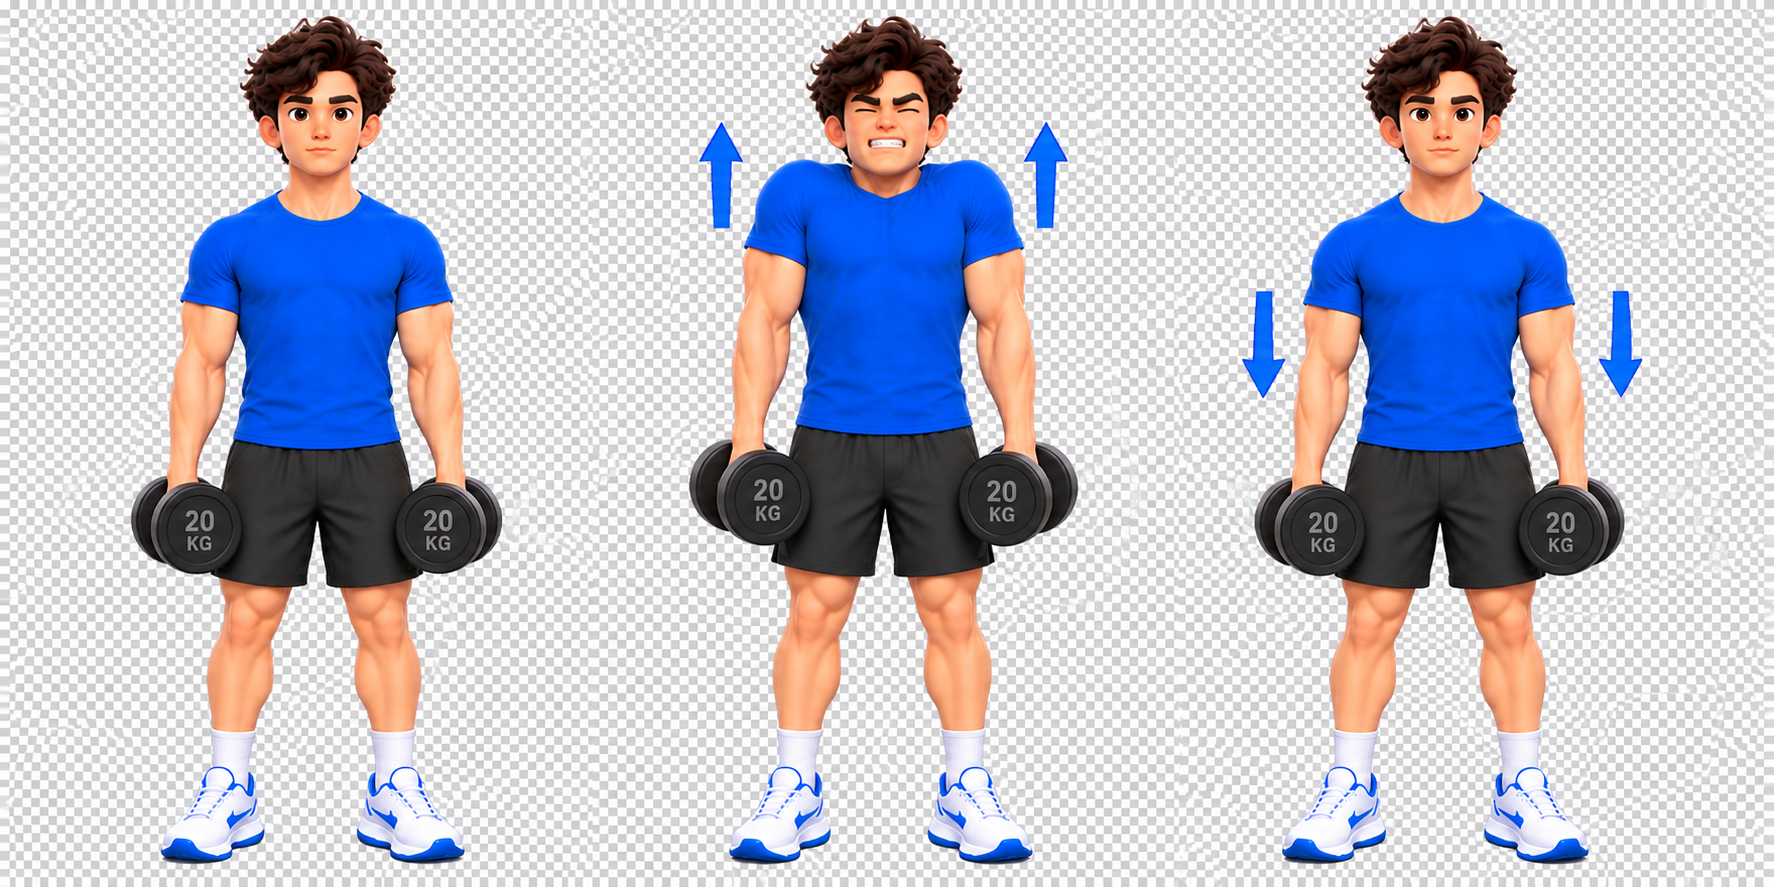
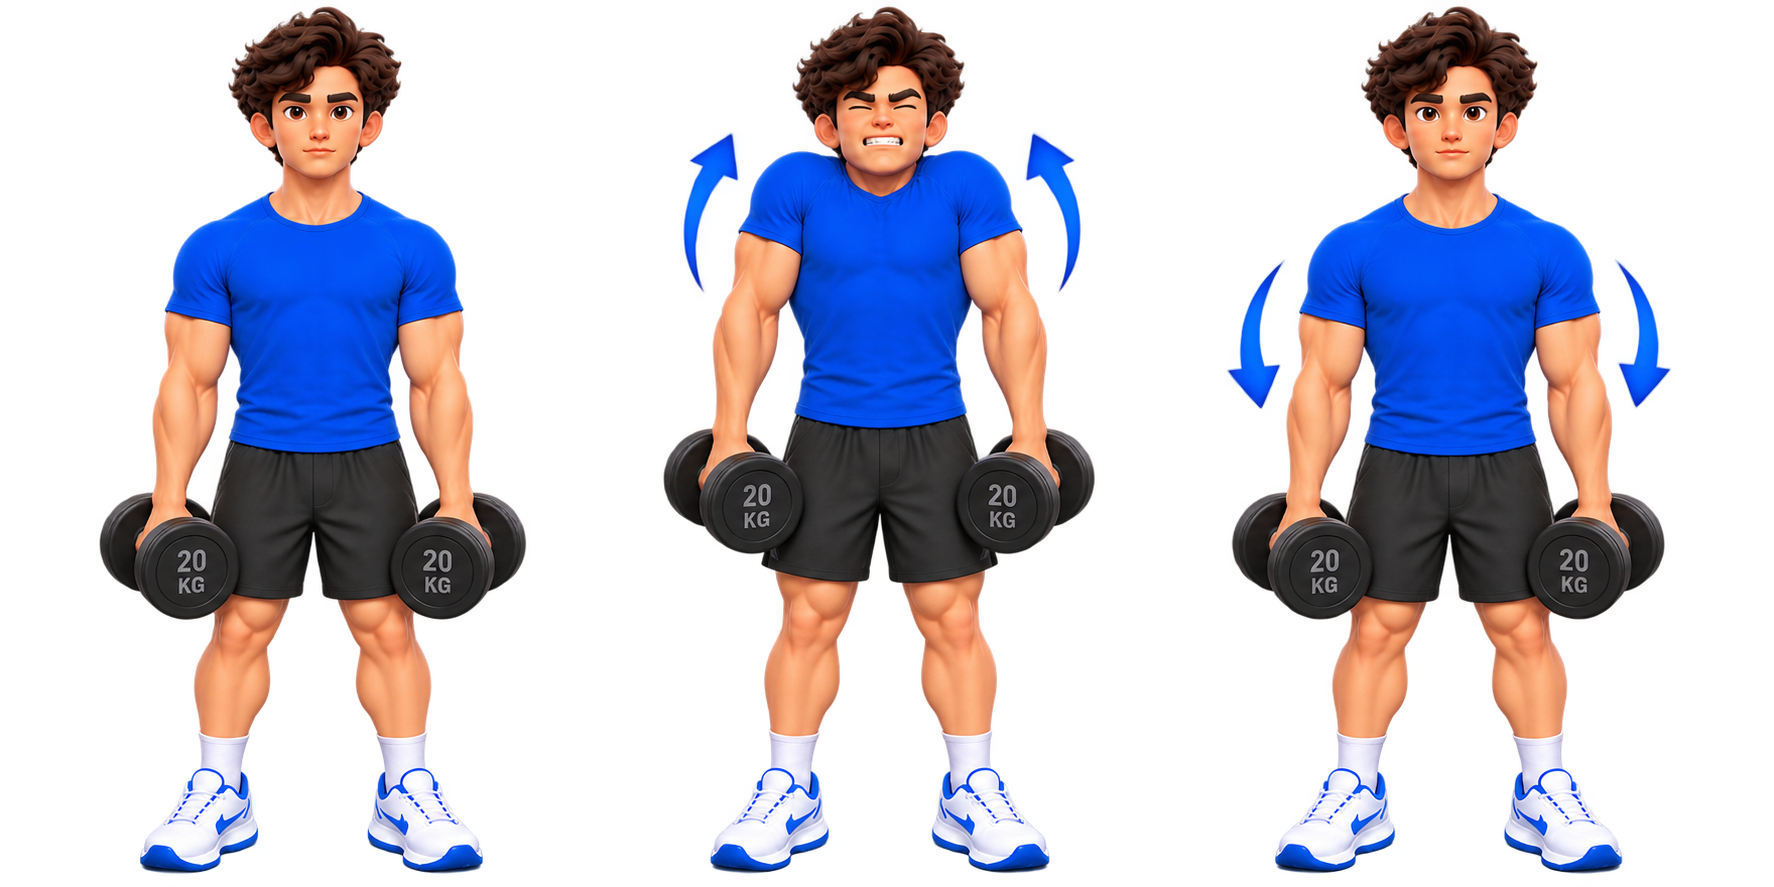
Complete Back section images, apply corrected ratings, refresh Quick Links art
Gym & Weighted / Back: added images for every remaining exercise (cable
shrug, chest-supported row, incline Y-raise, seated cable row, good
morning, superman, and more), replaced a few earlier placeholder/rough
images with cleaner versions, and applied the corrected rating pass —
Reverse Fly and Reverse Pec-Deck Fly bumped to Average, Prone Trap
Raise/Snow Angel bumped to Best, Upright Row removed from Lower Traps
(still present under Shoulders), and Lat Pulldown renamed to drop the
redundant "(Wide Grip)" qualifier. Every Back exercise now has an image.

Home page Quick Links now use custom illustration art
(shortcut-*.png) instead of emoji icons, with matching responsive sizing.

diff --git a/js/gym-muscle-data.js b/js/gym-muscle-data.js
@@ -100,56 +100,60 @@ window.GYM_MUSCLE_DATA = [
       { label: 'Lats', exercises: [
         { name: 'Pull-Up / Chin-Up', equipment: 'Bodyweight', rating: 'best',
           images: ['assets/images/pull-ups.png'] },
-        { name: 'Lat Pulldown (Wide Grip)', equipment: 'Cable Machine', rating: 'best',
+        { name: 'Lat Pulldown', equipment: 'Cable Machine', rating: 'best',
           images: ['assets/images/lat-pulldown.png'] },
         { name: 'Straight-Arm Pulldown', equipment: 'Cable Machine', rating: 'average',
-          images: ['assets/images/single-arm pulldown.png'] },
+          images: ['assets/images/Straight-Arm Pulldown.png'] },
         { name: 'Seated Cable Row (Wide Grip)', equipment: 'Cable Machine', rating: 'okay',
-          images: ['assets/images/seated cable row (wide- grip).png'] }
+          images: ['assets/images/Seated Cable Row (Wide Grip).png'] }
       ]},
       { label: 'Upper Traps', exercises: [
         { name: 'Barbell Shrug', equipment: 'Barbell', rating: 'best',
           images: ['assets/images/barbell shrug.png'] },
         { name: 'Dumbbell Shrug', equipment: 'Dumbbells', rating: 'best',
           images: ['assets/images/Dumbbell Shrug.png'] },
-        { name: 'Cable Shrug', equipment: 'Cable Machine', rating: 'average' },
+        { name: 'Cable Shrug', equipment: 'Cable Machine', rating: 'average',
+          images: ['assets/images/cable shrug.png'] },
         { name: "Farmer's Carry", equipment: 'Dumbbells / Kettlebells', rating: 'okay',
           images: ['assets/images/farmers-carry.png'] }
       ]},
       { label: 'Middle Traps', exercises: [
-        { name: 'Chest-Supported Row', equipment: 'Dumbbells / Machine', rating: 'best' },
+        { name: 'Chest-Supported Row', equipment: 'Dumbbells / Machine', rating: 'best',
+          images: ['assets/images/chest supported rows.png'] },
         { name: 'Seated Cable Row (Neutral Grip)', equipment: 'Cable Machine', rating: 'best',
-          images: ['assets/images/seated cable row(neutral-grip).png'] },
+          images: ['assets/images/seated cable row.png'] },
+        { name: 'Reverse Fly', equipment: 'Dumbbells', rating: 'average',
+          images: ['assets/images/reverse fly with dumbbells.png'] },
         { name: 'Face Pull', equipment: 'Cable Machine', rating: 'average',
-          images: ['assets/images/face pulls.png'] },
-        { name: 'Reverse Fly', equipment: 'Dumbbells', rating: 'okay',
-          images: ['assets/images/reverse fly with dumbbells.png'] }
+          images: ['assets/images/face-pulls.png'] }
       ]},
       { label: 'Lower Traps', exercises: [
-        { name: 'Incline Y-Raise', equipment: 'Dumbbells', rating: 'best' },
-        { name: 'Face Pull (High Angle)', equipment: 'Cable Machine', rating: 'average',
-          images: ['assets/images/face pulls(high angle)png.png'] },
-        { name: 'Prone Trap Raise / Snow Angel', equipment: 'Bodyweight', rating: 'average',
+        { name: 'Incline Y-Raise', equipment: 'Dumbbells', rating: 'best',
+          images: ['assets/images/incline Y raise.png'] },
+        { name: 'Prone Trap Raise / Snow Angel', equipment: 'Bodyweight', rating: 'best',
           images: ['assets/images/Prone Trap Raise(Snow Angel).png'] },
-        { name: 'Upright Row', equipment: 'Barbell / Dumbbells', rating: 'poor',
-          images: ['assets/images/upright row.png'] }
+        { name: 'Face Pull (High Angle)', equipment: 'Cable Machine', rating: 'average',
+          images: ['assets/images/face pulls(high angle)png.png'] }
       ]},
       { label: 'Rhomboids', exercises: [
         { name: 'Bent-Over Barbell Row', equipment: 'Barbell', rating: 'best',
           images: ['assets/images/Bent-Over Barbell Row.png'] },
-        { name: 'Seated Cable Row', equipment: 'Cable Machine', rating: 'best' },
+        { name: 'Seated Cable Row', equipment: 'Cable Machine', rating: 'best',
+          images: ['assets/images/seated cable row.png'] },
+        { name: 'Reverse Pec-Deck Fly', equipment: 'Machine', rating: 'average',
+          images: ['assets/images/machine-reverse-fly.png'] },
         { name: 'Face Pull', equipment: 'Cable Machine', rating: 'average',
-          images: ['assets/images/face pulls.png'] },
-        { name: 'Reverse Pec-Deck Fly', equipment: 'Machine', rating: 'okay',
-          images: ['assets/images/reverse pec-deck fly.png'] }
+          images: ['assets/images/face-pulls.png'] }
       ]},
       { label: 'Erector Spinae (Lower Back)', exercises: [
         { name: 'Deadlift', equipment: 'Barbell', rating: 'best',
           images: ['assets/images/deadlift.png'] },
         { name: 'Back Extension', equipment: 'Machine / Bench', rating: 'best',
           images: ['assets/images/back-extension.png'] },
-        { name: 'Good Morning', equipment: 'Barbell', rating: 'average' },
-        { name: 'Superman', equipment: 'Bodyweight', rating: 'okay' }
+        { name: 'Good Morning', equipment: 'Barbell', rating: 'average',
+          images: ['assets/images/good morning.png'] },
+        { name: 'Superman', equipment: 'Bodyweight', rating: 'okay',
+          images: ['assets/images/superman.png'] }
       ]}
     ]
   },
@@ -186,7 +190,8 @@ window.GYM_MUSCLE_DATA = [
     key: 'chest', label: 'Chest', emoji: '🎽', accent: 'green',
     muscles: [
       { label: 'Upper Chest', exercises: [
-        { name: 'Incline Barbell Bench Press', equipment: 'Barbell', rating: 'best' },
+        { name: 'Incline Barbell Bench Press', equipment: 'Barbell', rating: 'best',
+          images: ['assets/images/Incline Bench Press.png'] },
         { name: 'Incline Dumbbell Press', equipment: 'Dumbbells', rating: 'best' },
         { name: 'Incline Cable Fly (Low-to-High)', equipment: 'Cable Machine', rating: 'average' },
         { name: 'Decline Push-Up (Feet Elevated)', equipment: 'Bodyweight', rating: 'okay' }
@@ -195,7 +200,8 @@ window.GYM_MUSCLE_DATA = [
         { name: 'Flat Barbell Bench Press', equipment: 'Barbell', rating: 'best' },
         { name: 'Flat Dumbbell Press', equipment: 'Dumbbells', rating: 'best' },
         { name: 'Push-Up', equipment: 'Bodyweight', rating: 'average' },
-        { name: 'Flat Cable Fly / Pec-Deck', equipment: 'Cable Machine', rating: 'average' }
+        { name: 'Flat Cable Fly / Pec-Deck', equipment: 'Cable Machine', rating: 'average',
+          images: ['assets/images/miachine-fly.png'] }
       ]},
       { label: 'Lower Chest', exercises: [
         { name: 'Dip (Torso Leaned Forward)', equipment: 'Bodyweight / Machine', rating: 'best' },
@@ -240,7 +246,8 @@ window.GYM_MUSCLE_DATA = [
         { name: 'Romanian Deadlift', equipment: 'Barbell / Dumbbells', rating: 'best' },
         { name: 'Lying / Seated Leg Curl', equipment: 'Machine', rating: 'best' },
         { name: 'Nordic Curl', equipment: 'Bodyweight', rating: 'average' },
-        { name: 'Good Morning', equipment: 'Barbell', rating: 'okay' }
+        { name: 'Good Morning', equipment: 'Barbell', rating: 'okay',
+          images: ['assets/images/good morning.png'] }
       ]},
       { label: 'Glutes', exercises: [
         { name: 'Hip Thrust', equipment: 'Barbell', rating: 'best' },
@@ -265,25 +272,33 @@ window.GYM_MUSCLE_DATA = [
     key: 'shoulders', label: 'Shoulders', emoji: '🏔', accent: 'amber',
     muscles: [
       { label: 'Front Delts', exercises: [
-        { name: 'Overhead Barbell Press', equipment: 'Barbell', rating: 'best' },
-        { name: 'Dumbbell Shoulder Press', equipment: 'Dumbbells', rating: 'best' },
-        { name: 'Front Raise', equipment: 'Dumbbells / Plate', rating: 'average' },
-        { name: 'Incline Bench Press', equipment: 'Barbell', rating: 'okay' }
+        { name: 'Overhead Barbell Press', equipment: 'Barbell', rating: 'best',
+          images: ['assets/images/overhead-barbell-press.png'] },
+        { name: 'Dumbbell Shoulder Press', equipment: 'Dumbbells', rating: 'best',
+          images: ['assets/images/Dumbbell-Shoulder-Press.png'] },
+        { name: 'Front Raise', equipment: 'Dumbbells / Plate', rating: 'average',
+          images: ['assets/images/Front-Raise.png'] },
+        { name: 'Incline Bench Press', equipment: 'Barbell', rating: 'okay',
+          images: ['assets/images/Incline Bench Press.png'] }
       ]},
       { label: 'Lateral Delts', exercises: [
-        { name: 'Dumbbell Lateral Raise', equipment: 'Dumbbells', rating: 'best' },
-        { name: 'Cable Lateral Raise', equipment: 'Cable Machine', rating: 'best' },
-        { name: 'Machine Lateral Raise', equipment: 'Machine', rating: 'average' },
+        { name: 'Dumbbell Lateral Raise', equipment: 'Dumbbells', rating: 'best',
+          images: ['assets/images/Dumbbell-Lateral-Raise.png'] },
+        { name: 'Cable Lateral Raise', equipment: 'Cable Machine', rating: 'best',
+          images: ['assets/images/Cable-Lateral-Raise.png'] },
+        { name: 'Machine Lateral Raise', equipment: 'Machine', rating: 'average',
+          images: ['assets/images/Machine-Lateral-Raise.png'] },
         { name: 'Upright Row', equipment: 'Barbell / Dumbbells', rating: 'okay',
-          images: ['assets/images/upright row.png'] }
+          images: ['assets/images/Upright-Row.png'] }
       ]},
       { label: 'Rear Delts', exercises: [
         { name: 'Face Pull', equipment: 'Cable Machine', rating: 'best',
-          images: ['assets/images/face pulls.png'] },
+          images: ['assets/images/face-pulls.png'] },
         { name: 'Reverse Pec-Deck Fly', equipment: 'Machine', rating: 'best',
-          images: ['assets/images/reverse pec-deck fly.png'] },
+          images: ['assets/images/machine-reverse-fly.png'] },
         { name: 'Bent-Over Reverse Fly', equipment: 'Dumbbells', rating: 'average' },
-        { name: 'Front Raise', equipment: 'Dumbbells / Plate', rating: 'poor' }
+        { name: 'Front Raise', equipment: 'Dumbbells / Plate', rating: 'poor',
+          images: ['assets/images/Front-Raise.png'] }
       ]}
     ]
   },
@@ -291,7 +306,8 @@ window.GYM_MUSCLE_DATA = [
     key: 'core', label: 'Core', emoji: '🎯', accent: 'green',
     muscles: [
       { label: 'Upper Abs (Rectus Abdominis)', exercises: [
-        { name: 'Cable Crunch', equipment: 'Cable Machine', rating: 'best' },
+        { name: 'Cable Crunch', equipment: 'Cable Machine', rating: 'best',
+          images: ['assets/images/cable-crunch.png'] },
         { name: 'Weighted Decline Sit-Up', equipment: 'Weight Plate / Bench', rating: 'best' },
         { name: 'Hanging Knee Raise', equipment: 'Bodyweight', rating: 'average' },
         { name: 'Standard Crunch', equipment: 'Bodyweight', rating: 'okay' }

diff --git a/index.html b/index.html
@@ -37,11 +37,11 @@
   <!-- ================= QUICK LINKS ================= -->
   <section class="container quick-links-section" data-reveal>
     <div class="quick-links">
-      <a class="quick-link" href="exercises/index.html"><span class="icon-badge xl" data-accent="pink">🏋</span><span class="quick-link-title">Workouts</span><span class="quick-link-sub">Home, Gym &amp; More</span></a>
-      <a class="quick-link" href="exercises/running.html"><span class="icon-badge xl" data-accent="green">🏃</span><span class="quick-link-title">Running</span><span class="quick-link-sub">Warm Up, Run, Recover</span></a>
-      <a class="quick-link" href="nutrition/index.html"><span class="icon-badge xl" data-accent="amber">🍎</span><span class="quick-link-title">Nutrition</span><span class="quick-link-sub">Fuel Your Goals</span></a>
-      <a class="quick-link" href="exercises/yoga.html"><span class="icon-badge xl" data-accent="violet">🪷</span><span class="quick-link-title">Yoga</span><span class="quick-link-sub">A Calmer You</span></a>
-      <a class="quick-link" href="recovery/index.html"><span class="icon-badge xl" data-accent="cyan">🌙</span><span class="quick-link-title">Recovery</span><span class="quick-link-sub">Rest. Rebuild. Grow.</span></a>
+      <a class="quick-link" href="exercises/index.html"><span class="icon-badge xl shortcut-art" data-accent="pink"><img src="assets/images/shortcut-workouts.png" alt="Cartoon athlete lifting dumbbells"></span><span class="quick-link-title">Workouts</span><span class="quick-link-sub">Home, Gym &amp; More</span></a>
+      <a class="quick-link" href="exercises/running.html"><span class="icon-badge xl shortcut-art" data-accent="green"><img src="assets/images/shortcut-running.png" alt="Cartoon athlete running"></span><span class="quick-link-title">Running</span><span class="quick-link-sub">Warm Up, Run, Recover</span></a>
+      <a class="quick-link" href="nutrition/index.html"><span class="icon-badge xl shortcut-art" data-accent="amber"><img src="assets/images/shortcut-nutrition.png" alt="Cartoon athlete holding a healthy bowl"></span><span class="quick-link-title">Nutrition</span><span class="quick-link-sub">Fuel Your Goals</span></a>
+      <a class="quick-link" href="exercises/yoga.html"><span class="icon-badge xl shortcut-art yoga-art" data-accent="violet" aria-label="Yoga and meditation"><span class="yoga-symbol" aria-hidden="true">🧘</span></span><span class="quick-link-title">Yoga</span><span class="quick-link-sub">A Calmer You</span></a>
+      <a class="quick-link" href="recovery/index.html"><span class="icon-badge xl shortcut-art" data-accent="cyan"><img src="assets/images/shortcut-recovery.png" alt="Cartoon athlete resting with a moon"></span><span class="quick-link-title">Recovery</span><span class="quick-link-sub">Rest. Rebuild. Grow.</span></a>
     </div>
   </section>
 

diff --git a/css/components.css b/css/components.css
@@ -265,7 +265,7 @@ a.topic-card::after {
   display: flex;
   justify-content: center;
   flex-wrap: wrap;
-  gap: 56px;
+  gap: 36px;
 }
 .quick-link {
   display: flex;
@@ -273,10 +273,18 @@ a.topic-card::after {
   align-items: center;
   text-align: center;
   gap: 14px;
-  width: 220px;
+  width: 184px;
 }
 .quick-link .icon-badge { transition: transform var(--dur-fast), box-shadow var(--dur-fast); }
 .quick-link:hover .icon-badge { transform: translateY(-5px); box-shadow: 0 12px 22px rgba(37,63,124,.18); }
+.shortcut-art { width: 190px !important; height: 172px !important; position: relative; overflow: hidden; isolation: isolate; border-radius: 34px !important; }
+.shortcut-art::before { content: ''; position: absolute; inset: 10px; border-radius: 27px; background: rgba(255,255,255,.34); z-index: -1; }
+.shortcut-art img { width: 88%; height: 88%; max-width: none; object-fit: contain; object-position: center center; filter: drop-shadow(0 8px 8px rgba(30,55,110,.14)); }
+.quick-link:nth-child(2) .shortcut-art img { width: 85%; height: 85%; }
+.quick-link:nth-child(3) .shortcut-art img { width: 87%; height: 87%; }
+.quick-link:nth-child(5) .shortcut-art img { width: 84%; height: 84%; }
+.yoga-art { background: linear-gradient(135deg,#f4ecff,#e9e5ff); }
+.yoga-symbol { font-size: 94px; line-height: 1; transform: translateY(5px); filter: drop-shadow(0 8px 8px rgba(72,61,147,.13)); }
 .quick-link-title { font-family: var(--font-display); font-weight: 800; font-size: 1.02rem; line-height: 1.2; color: var(--text-primary); }
 .quick-link-sub { color: var(--text-secondary); font-weight: 700; font-size: .82rem; line-height: 1.3; }
 

diff --git a/css/layout.css b/css/layout.css
@@ -168,7 +168,8 @@
   .quick-links-section { margin-top: -70px; padding: 10px 0 56px; }
   .quick-links { gap: 28px 20px; }
   .quick-link { width: 160px; }
-  .icon-badge.xl { width: 156px; height: 156px; font-size: 72px; }
+  .shortcut-art { width: 156px !important; height: 144px !important; border-radius: 28px !important; }
+  .yoga-symbol { font-size: 76px; }
   .topic-card { min-height: 155px; }
   .cta-band { padding: 36px 22px; }
   .cta-actions { flex-direction: column; }
